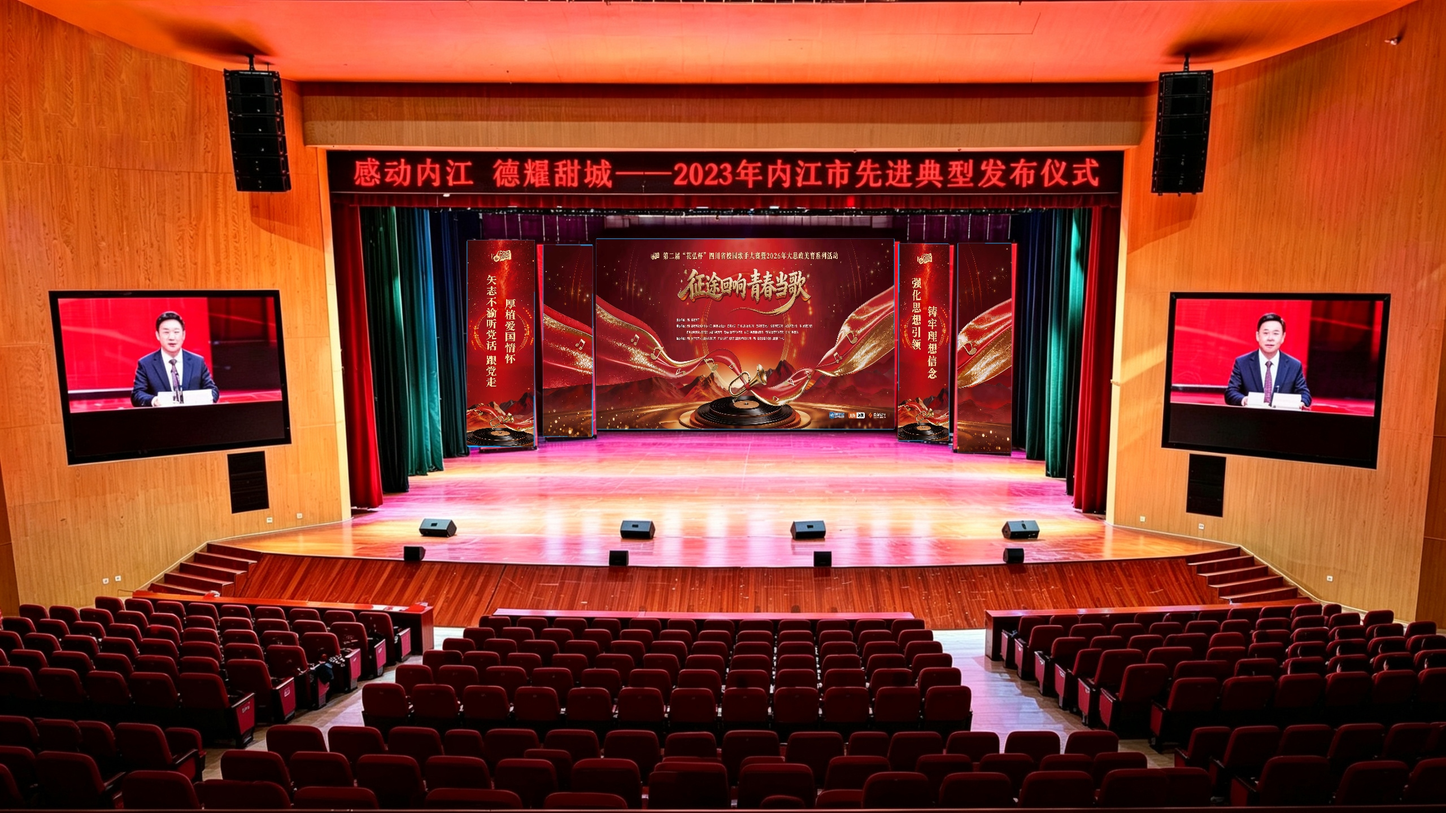
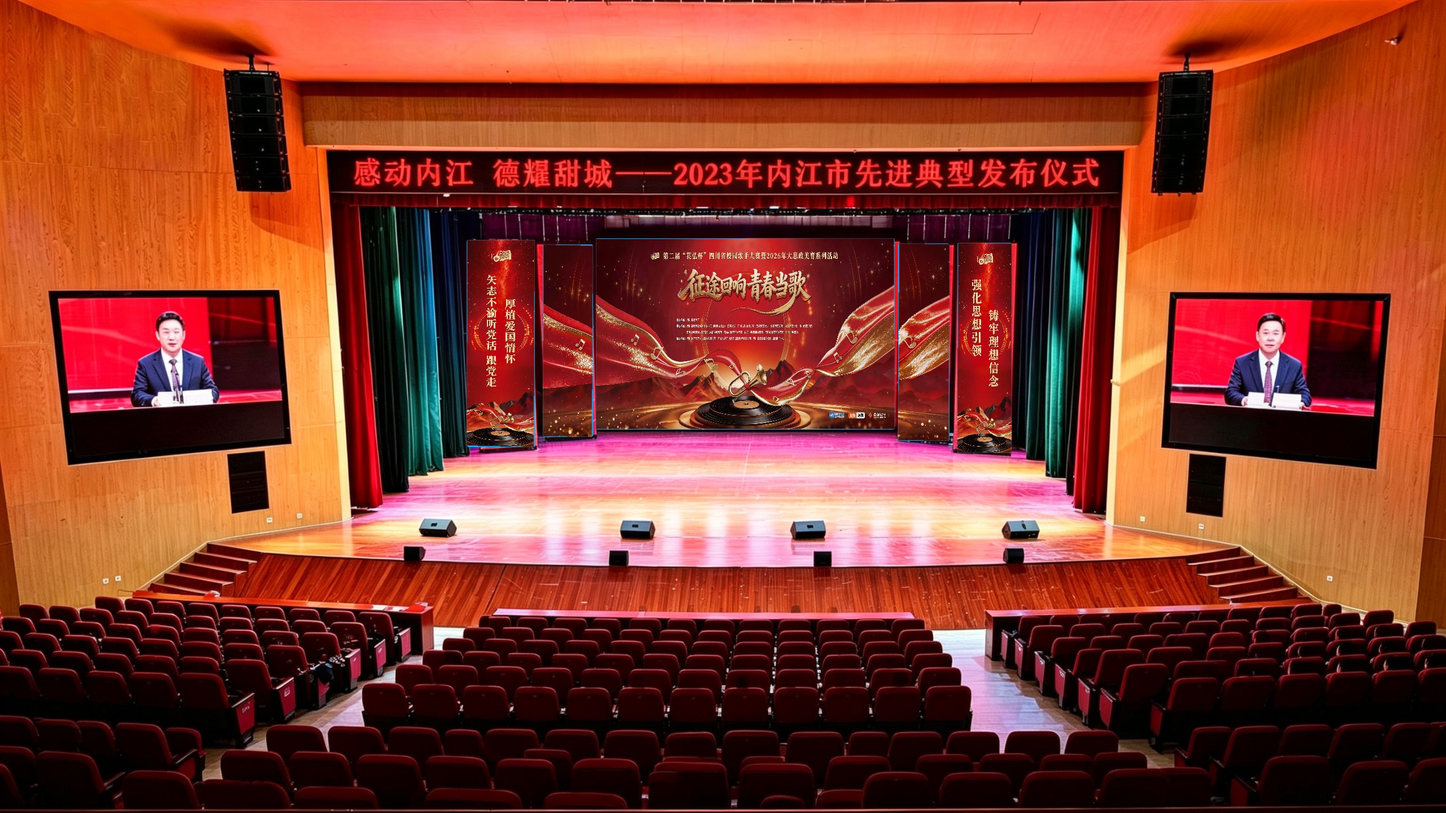
修正：右侧两块竖屏对调（最外=强化思想引领，靠内=音符）

Changed region(s): [[0.5938, 0.2812, 0.7188, 0.5625]]

diff --git a/compose_stage.py b/compose_stage.py
@@ -8,8 +8,8 @@
   center      <- center.jpg       中间大屏：征途回响 青春当歌
   left_outer  <- left_outer.jpg   左最外竖屏：矢志不渝听党话 跟党走 / 厚植爱国情怀
   left_inner  <- left_inner.jpg   左内侧竖屏：红金音符
-  right_inner <- right_inner.jpg  右内侧竖屏：强化思想引领 / 铸牢理想信念
-  right_outer <- right_outer.jpg  右最外竖屏：红金音符
+  right_inner <- right_outer.jpg  右内侧竖屏：红金音符
+  right_outer <- right_inner.jpg  右最外竖屏：强化思想引领 / 铸牢理想信念
 """
 import numpy as np
 import cv2
@@ -20,8 +20,8 @@ MAPPING = {
     "center":      "images/center.jpg",
     "left_outer":  "images/left_outer.jpg",
     "left_inner":  "images/left_inner.jpg",
-    "right_inner": "images/right_inner.jpg",
-    "right_outer": "images/right_outer.jpg",
+    "right_inner": "images/right_outer.jpg",
+    "right_outer": "images/right_inner.jpg",
 }
 NAMES = ["left_outer", "left_inner", "center", "right_inner", "right_outer"]
 
